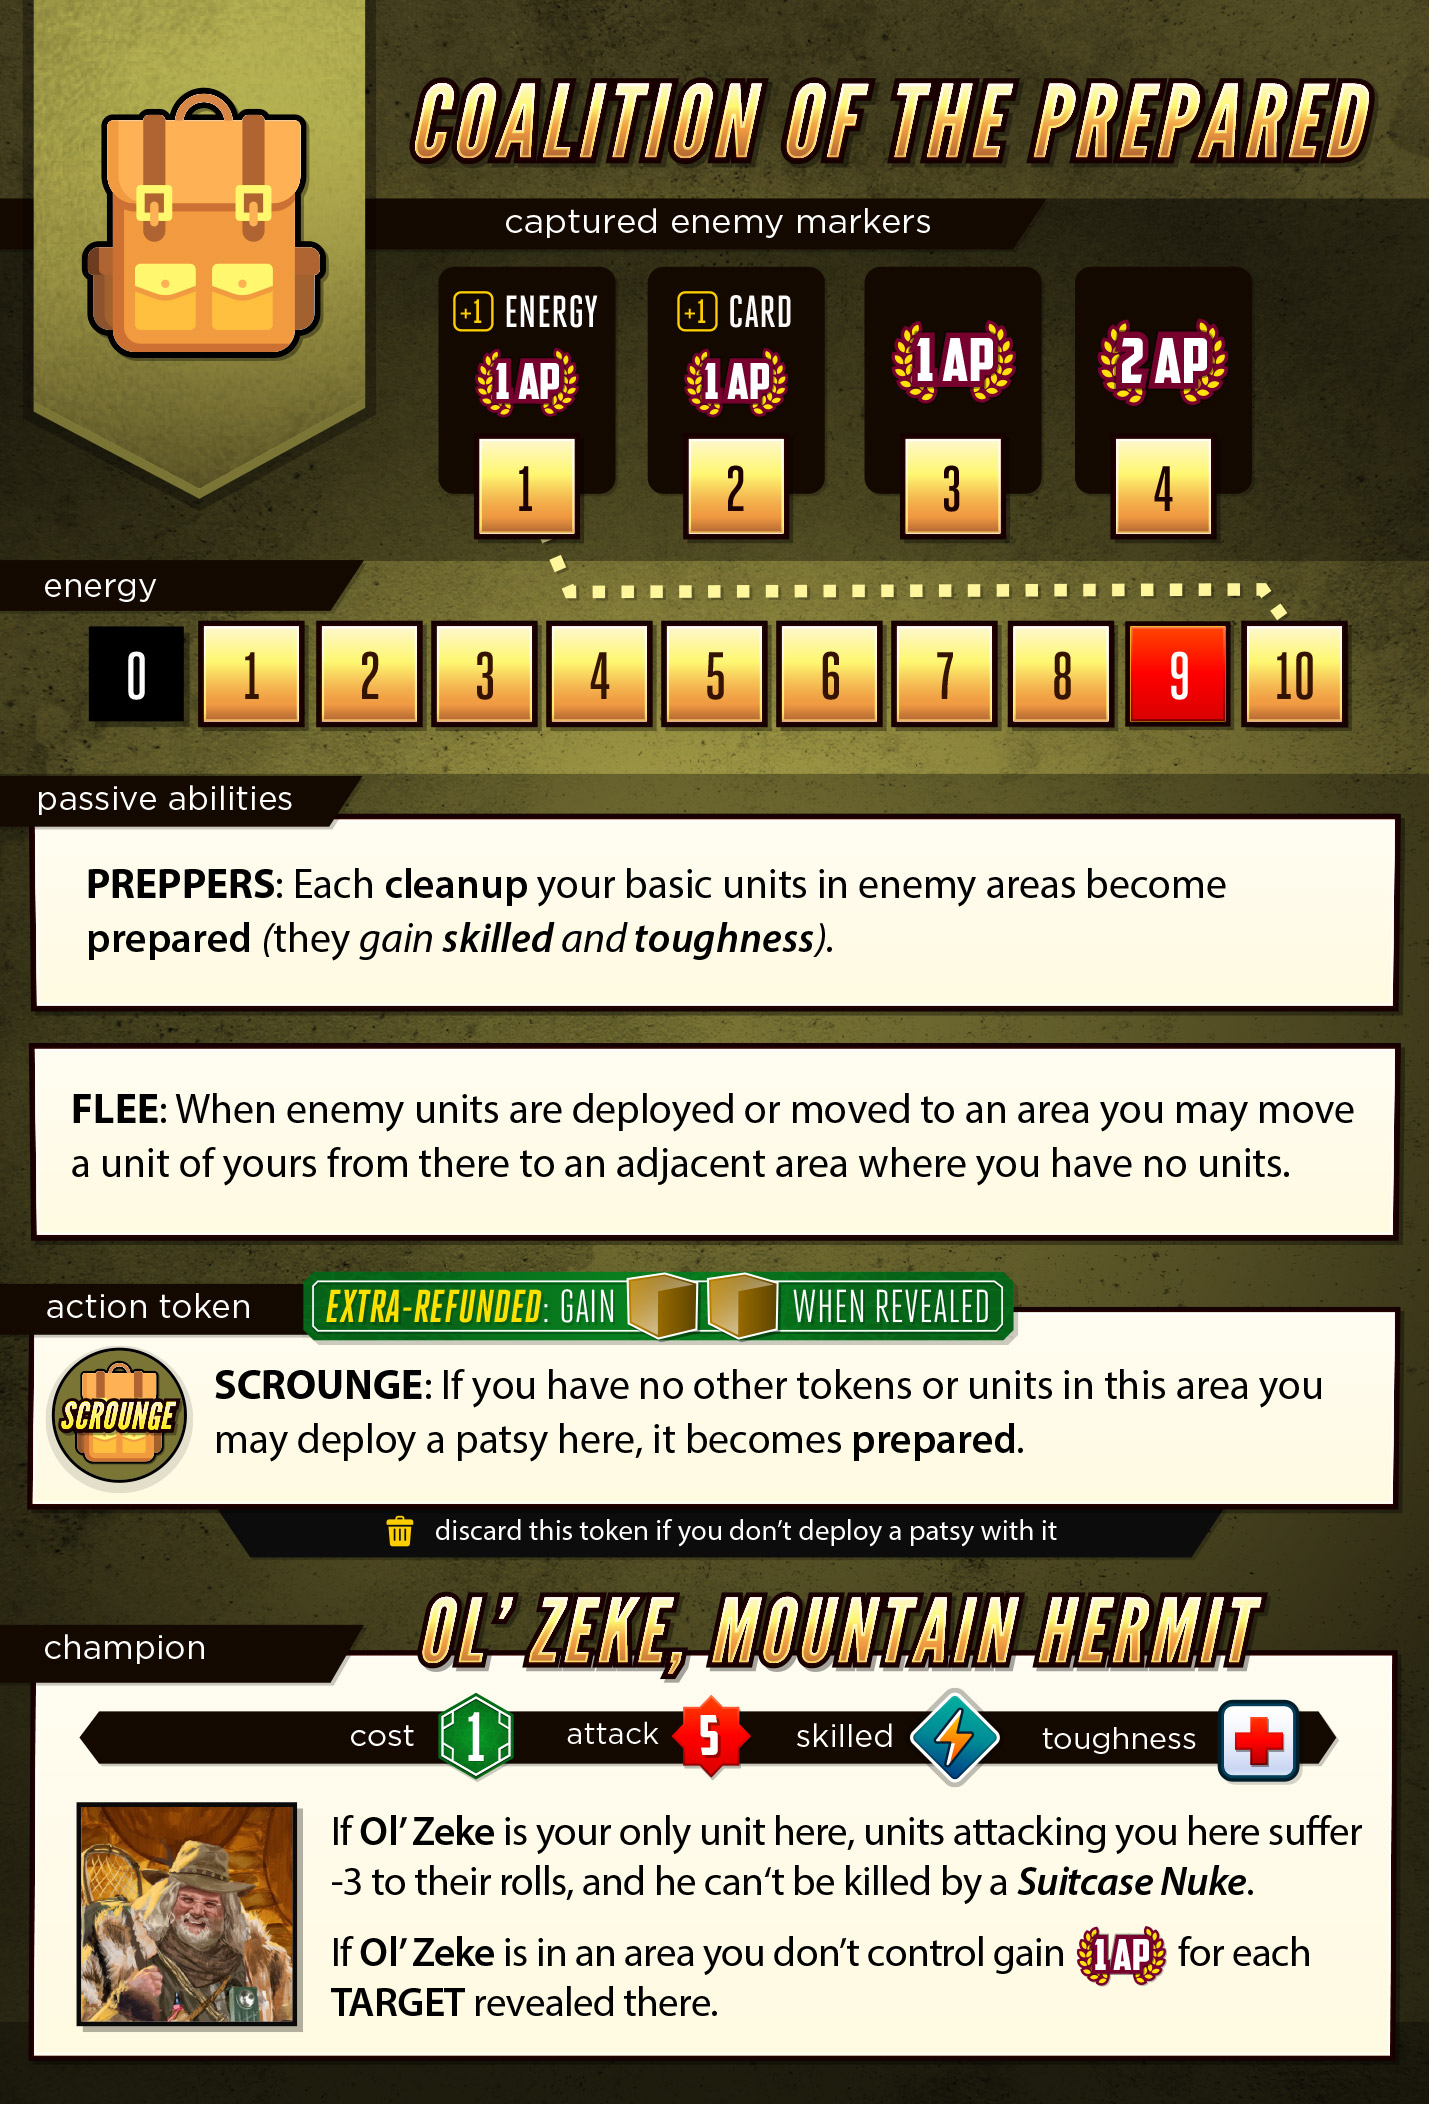
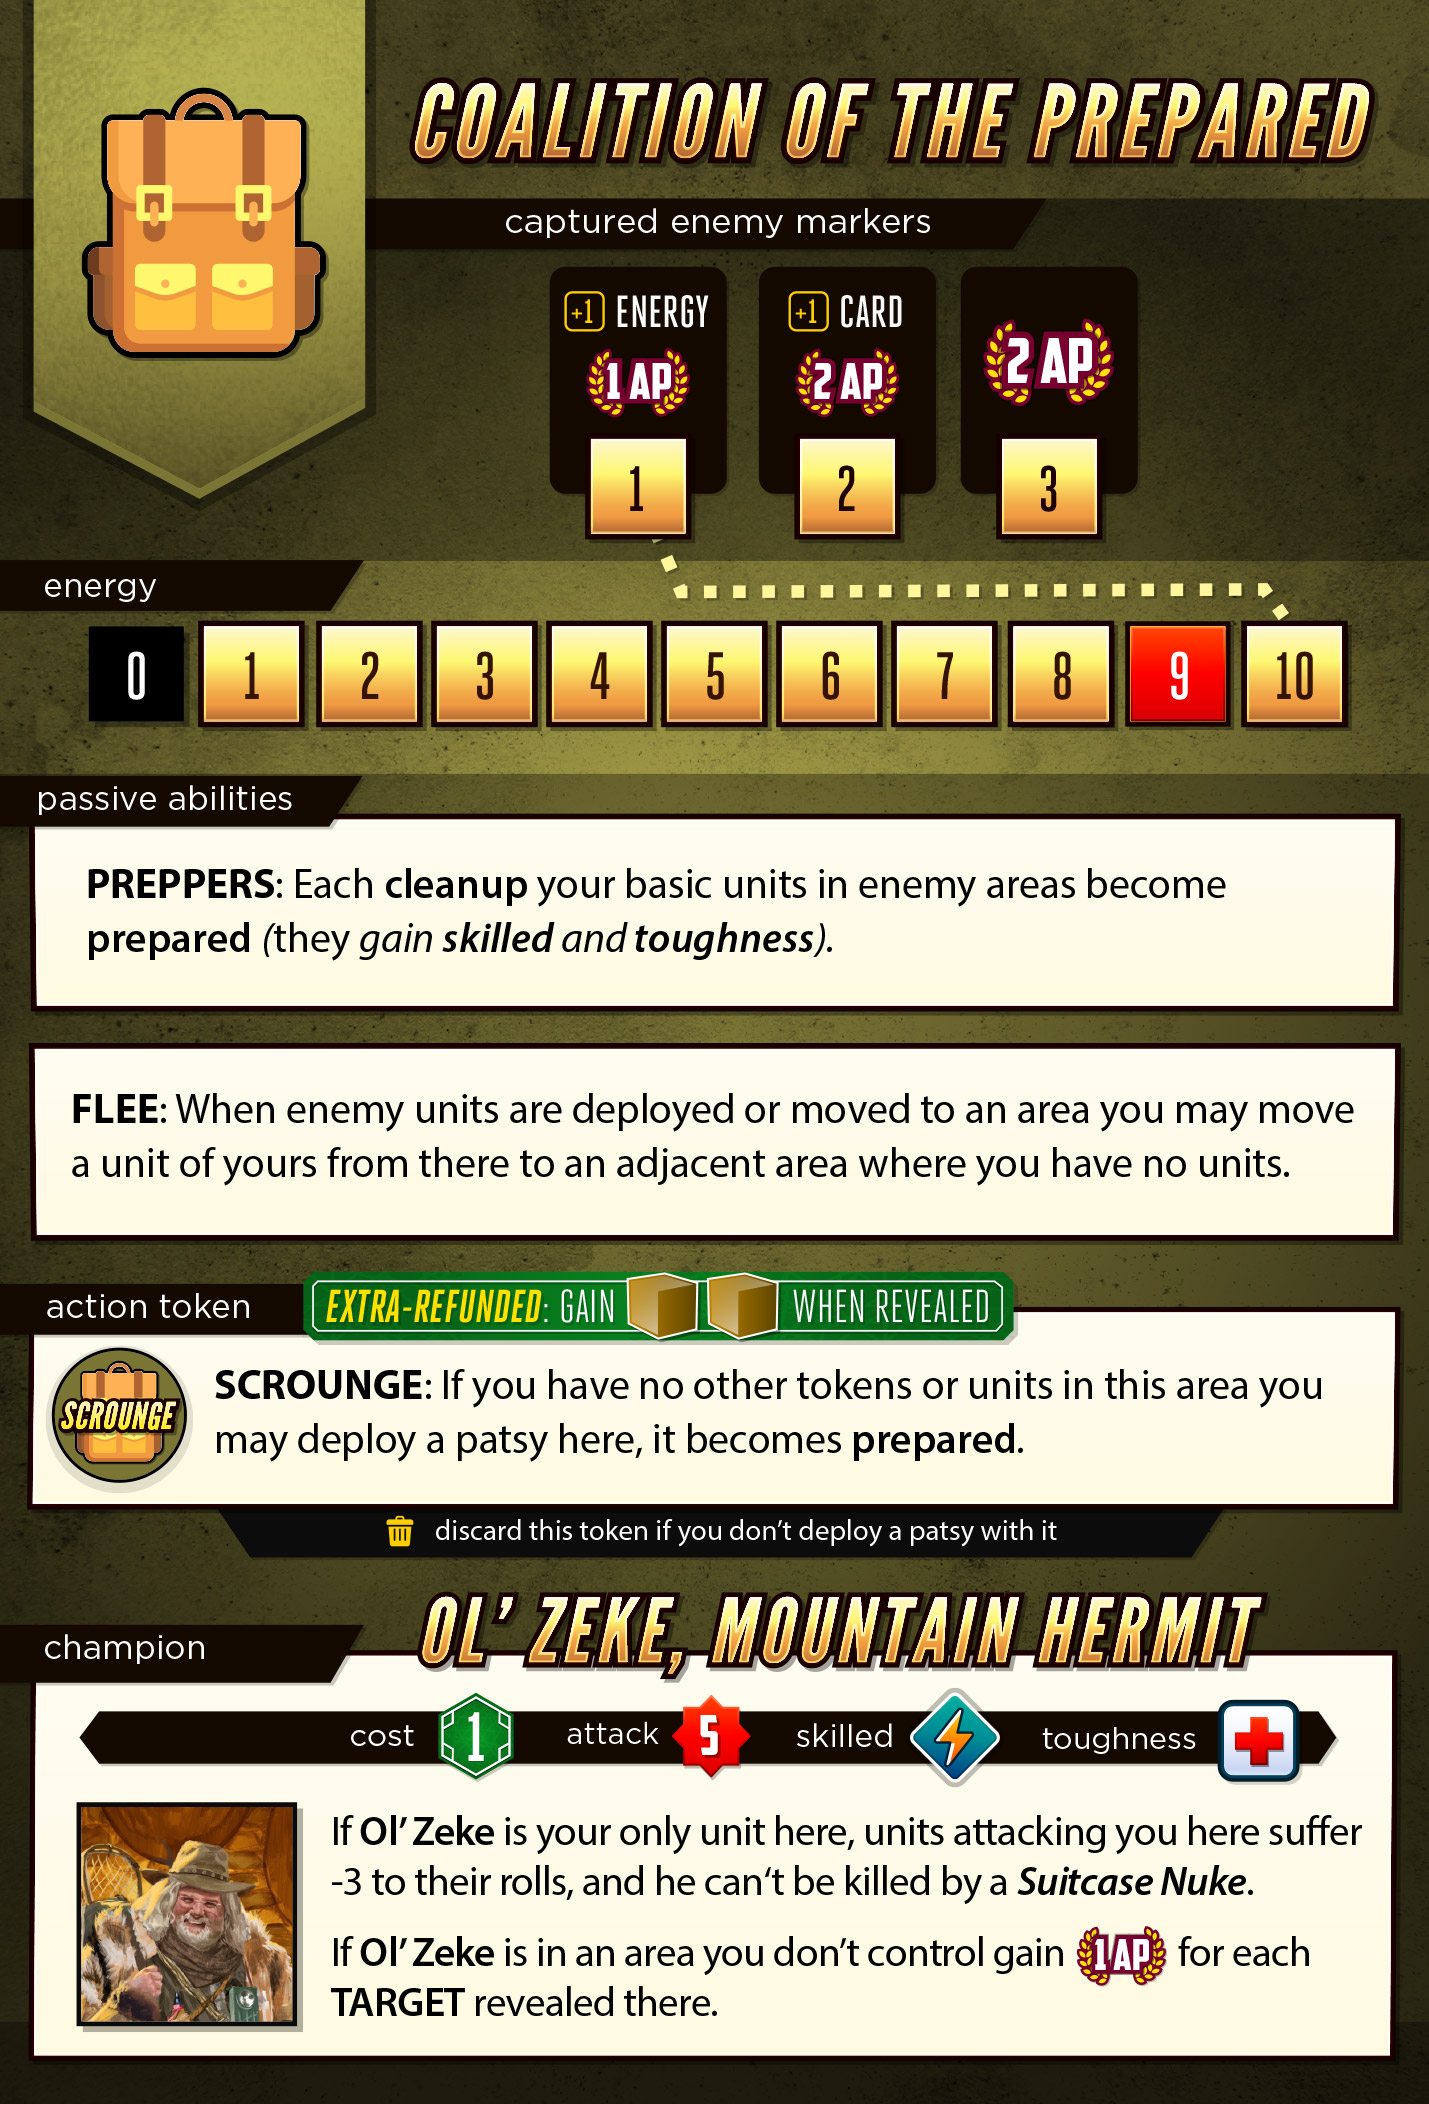
SURVIVALISTS: compress capture track

Changed region(s): [[0.3079, 0.1236, 0.8929, 0.3089]]

diff --git a/server/classes/factions/Survivalists.js b/server/classes/factions/Survivalists.js
@@ -22,6 +22,12 @@ class Survivalists extends Faction {
             "onCleanUp" : "prepareUnits"
         };
 
+        this.capturedRewards = [
+            { ap : 1, maxEnergy : 1 },
+            { ap : 2, cardDraw : 1 },
+            { ap : 2, cardDraw : 1 },
+        ];
+
         // tokens
         this.tokens['deploy'].count = 4;
 
